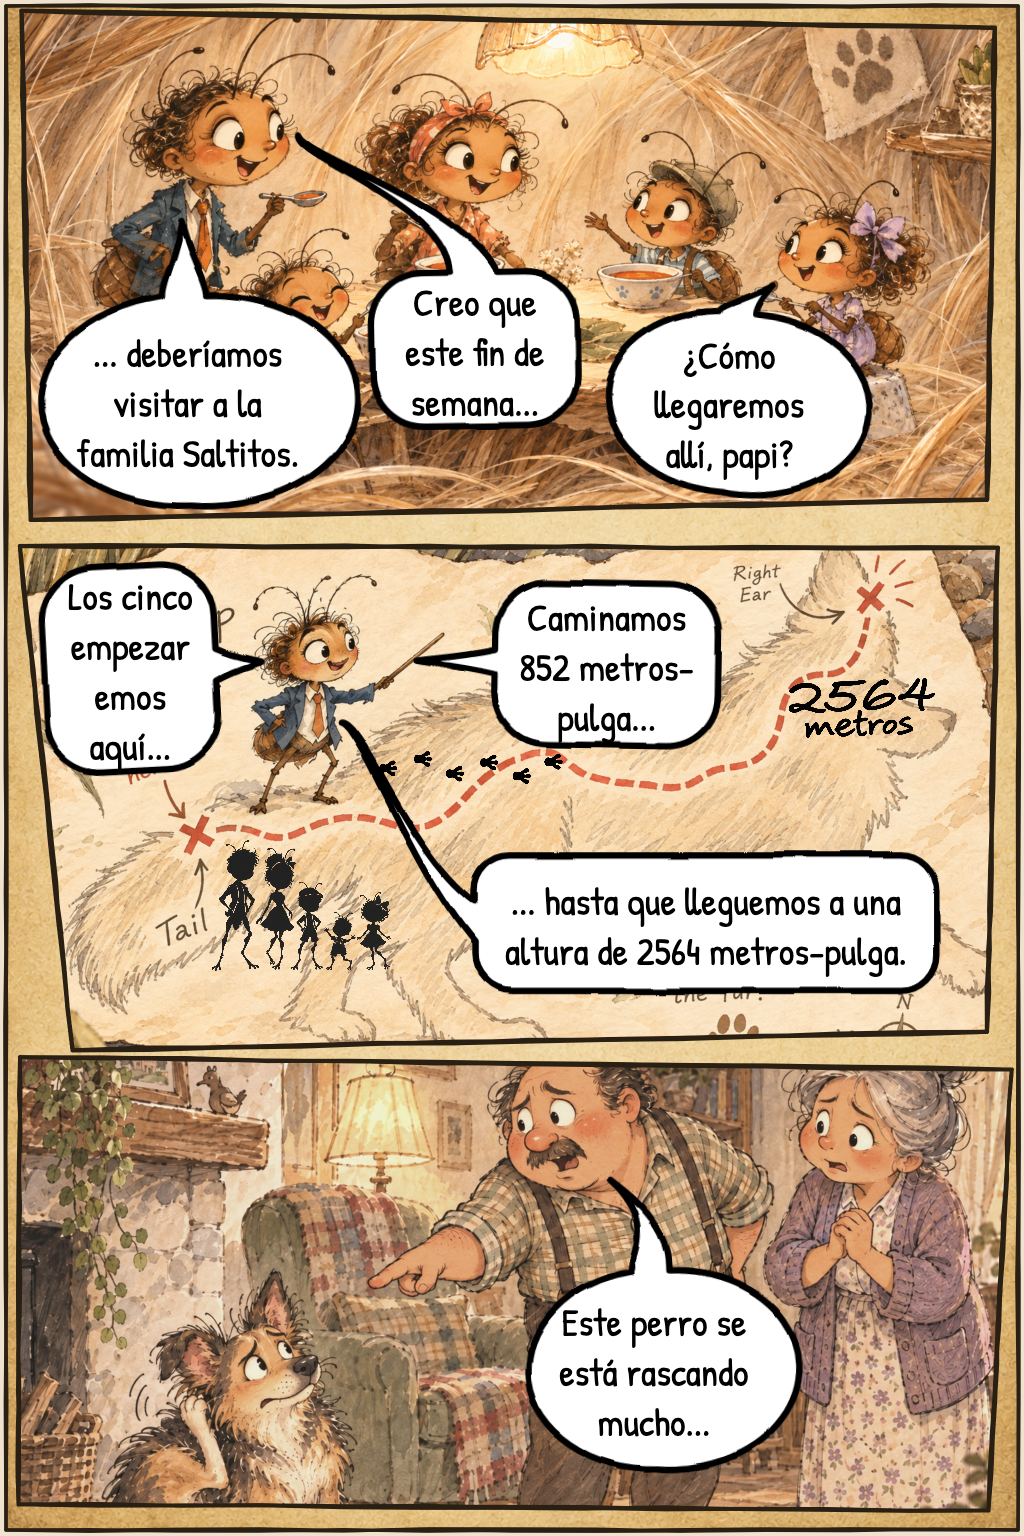
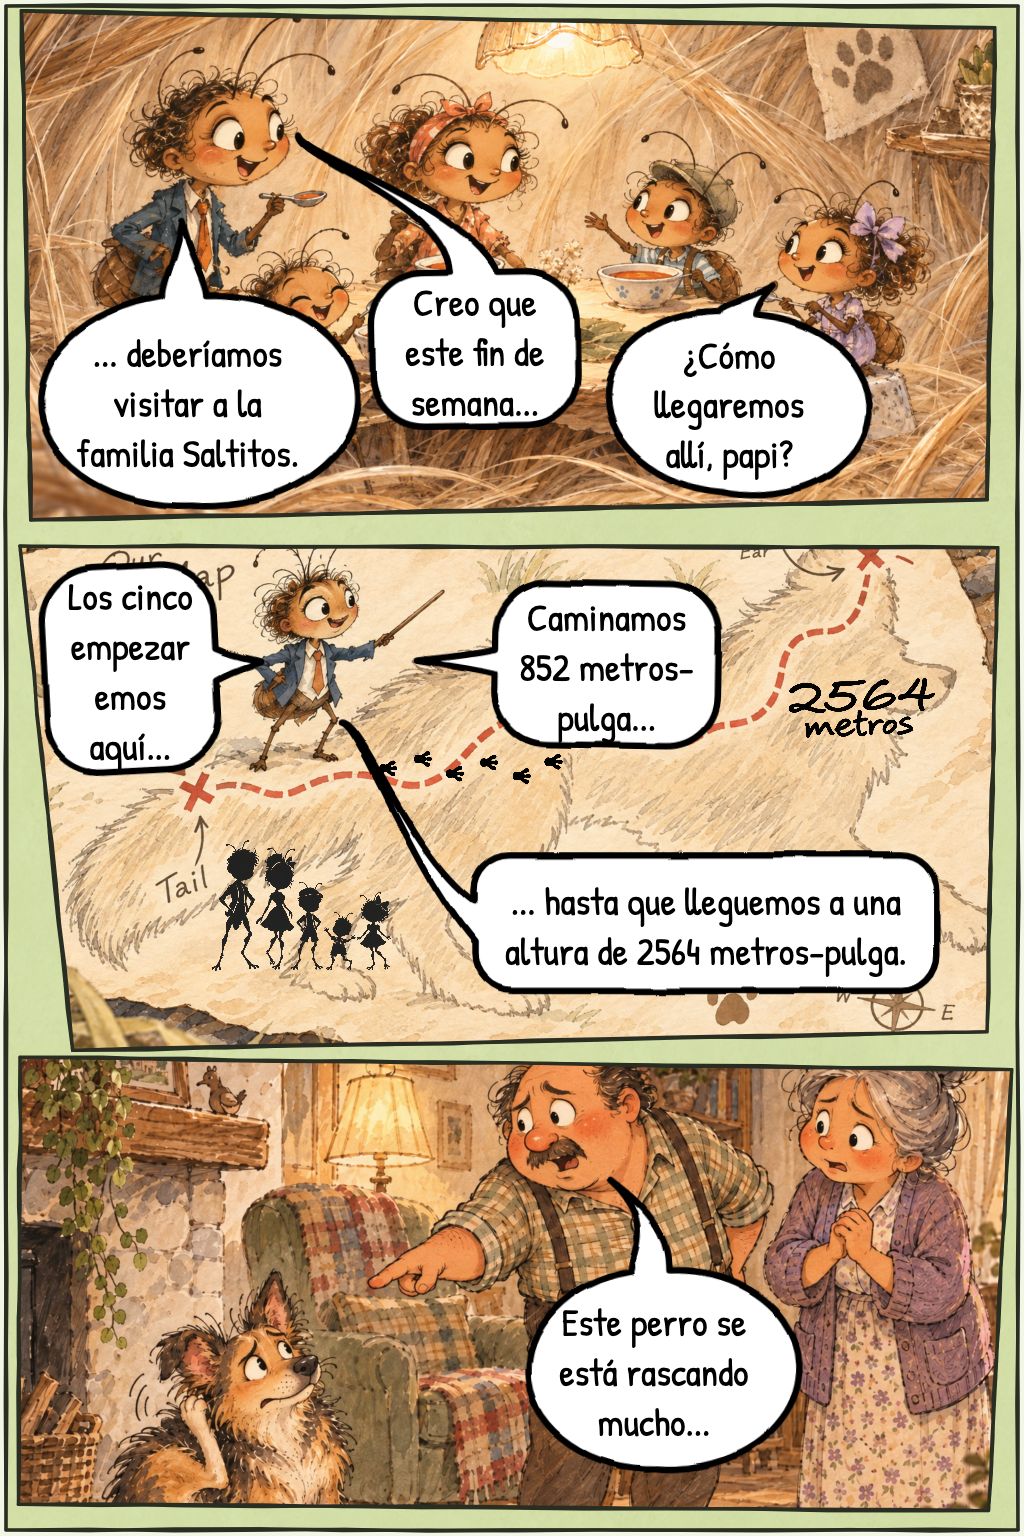
Site: "Conteo y números" republished with its new background

Changed region(s): [[0.0, 0.0, 1.0, 1.0], [0.0938, 0.0, 0.1562, 0.0312]]

diff --git a/site/examples/counting-and-numbers.html b/site/examples/counting-and-numbers.html
@@ -12,10 +12,10 @@
 <meta property="og:title" content="Spanish Numbers Reading Practice: a Comic with Audio | Comigo">
 <meta property="og:description" content="A family of fleas plans a weekend trip across the dog — walking 852 metres and climbing to 2,564. Read the beginner dialogue, tap any word for its meaning and hear every bubble read aloud to practise Spanish numbers in context.">
 <meta property="og:url" content="https://comigo.net/spanish-reading-practice/counting-and-numbers">
-<meta property="og:image" content="https://comigo.net/assets/example-counting-and-numbers-og.c4bfa408.jpg">
+<meta property="og:image" content="https://comigo.net/assets/example-counting-and-numbers-og.a479df9f.jpg">
 <meta property="og:image:width" content="1200">
 <meta property="og:image:height" content="630">
-<meta name="twitter:image" content="https://comigo.net/assets/example-counting-and-numbers-og.c4bfa408.jpg">
+<meta name="twitter:image" content="https://comigo.net/assets/example-counting-and-numbers-og.a479df9f.jpg">
 <meta name="twitter:card" content="summary_large_image">
 <meta name="twitter:title" content="Spanish Numbers Reading Practice: a Comic with Audio | Comigo">
 <meta name="twitter:description" content="A family of fleas plans a weekend trip across the dog — walking 852 metres and climbing to 2,564. Read the beginner dialogue, tap any word for its meaning and hear every bubble read aloud to practise Spanish numbers in context.">
@@ -59,7 +59,7 @@
    "description": "A family of fleas plans a weekend trip across the dog — walking 852 metres and climbing to 2,564. Read the beginner dialogue, tap any word for its meaning and hear every bubble read aloud to practise Spanish numbers in context.",
    "image": {
     "@type": "ImageObject",
-    "url": "https://comigo.net/assets/example-counting-and-numbers.1d13b791.webp",
+    "url": "https://comigo.net/assets/example-counting-and-numbers.4ae62b03.webp",
     "width": 640,
     "height": 960,
     "caption": "Three-panel comic. A flea family in a dog's fur plans a weekend visit to the Saltitos family; the father flea traces a route on a map of the dog with the numbers 852 and 2564 metres; below, an elderly couple watch their dog scratching."
@@ -329,7 +329,7 @@
   <h2 class="display stage-head">Click on a bubble or a <span class="hot-word">hotspot</span></h2>
   <p class="stage-note">Every line is voiced — tap a bubble to listen, tap a word for its meaning.</p>
   <div class="stage" data-ex="counting-and-numbers">
-    <img fetchpriority="high" decoding="async" src="/assets/example-counting-and-numbers.1d13b791.webp" width="640" height="960" alt="Three-panel comic. A flea family in a dog&#x27;s fur plans a weekend visit to the Saltitos family; the father flea traces a route on a map of the dog with the numbers 852 and 2564 metres; below, an elderly couple watch their dog scratching.">
+    <img fetchpriority="high" decoding="async" src="/assets/example-counting-and-numbers.4ae62b03.webp" width="640" height="960" alt="Three-panel comic. A flea family in a dog&#x27;s fur plans a weekend visit to the Saltitos family; the father flea traces a route on a map of the dog with the numbers 852 and 2564 metres; below, an elderly couple watch their dog scratching.">
     <button class="hotspot" data-i="0" style="left:35.2%;top:16.2%;width:22.4%;height:13.0%" aria-label="Creo que este fin de semana... — tap to hear and explore"></button>
     <button class="hotspot" data-i="1" style="left:2.7%;top:17.7%;width:31.2%;height:16.7%" aria-label="... deberíamos visitar a la familia Saltitos. — tap to hear and explore"></button>
     <button class="hotspot" data-i="2" style="left:58.1%;top:18.8%;width:26.3%;height:14.8%" aria-label="¿Cómo llegaremos allí, papi? — tap to hear and explore"></button>

diff --git a/site/examples/staying-safe.html b/site/examples/staying-safe.html
@@ -468,7 +468,7 @@
 </style>
 <section class="wrap ex-links">
   <a class="ex-card" href="/spanish-reading-practice/counting-and-numbers">
-    <img loading="lazy" decoding="async" src="/assets/example-counting-and-numbers.1d13b791.webp" width="640" height="960" alt="">
+    <img loading="lazy" decoding="async" src="/assets/example-counting-and-numbers.4ae62b03.webp" width="640" height="960" alt="">
     <div class="ex-card-body">
       <span class="ex-level-pill">Intermediate</span>
       <h3 class="display ex-title alt-title"><span class="alt-es" lang="es">Conteo y números</span> <span class="alt-en" lang="en" aria-hidden="true">Counting and numbers</span></h3>

diff --git a/site/spanish-reading-practice.html b/site/spanish-reading-practice.html
@@ -411,7 +411,7 @@
     </div>
   </a>
   <a class="ex-card" href="/spanish-reading-practice/counting-and-numbers">
-    <img loading="lazy" decoding="async" src="/assets/example-counting-and-numbers.1d13b791.webp" width="640" height="960" alt="">
+    <img loading="lazy" decoding="async" src="/assets/example-counting-and-numbers.4ae62b03.webp" width="640" height="960" alt="">
     <div class="ex-card-body">
       <span class="ex-level-pill">Intermediate</span>
       <h3 class="display ex-title alt-title"><span class="alt-es" lang="es">Conteo y números</span> <span class="alt-en" lang="en" aria-hidden="true">Counting and numbers</span></h3>
